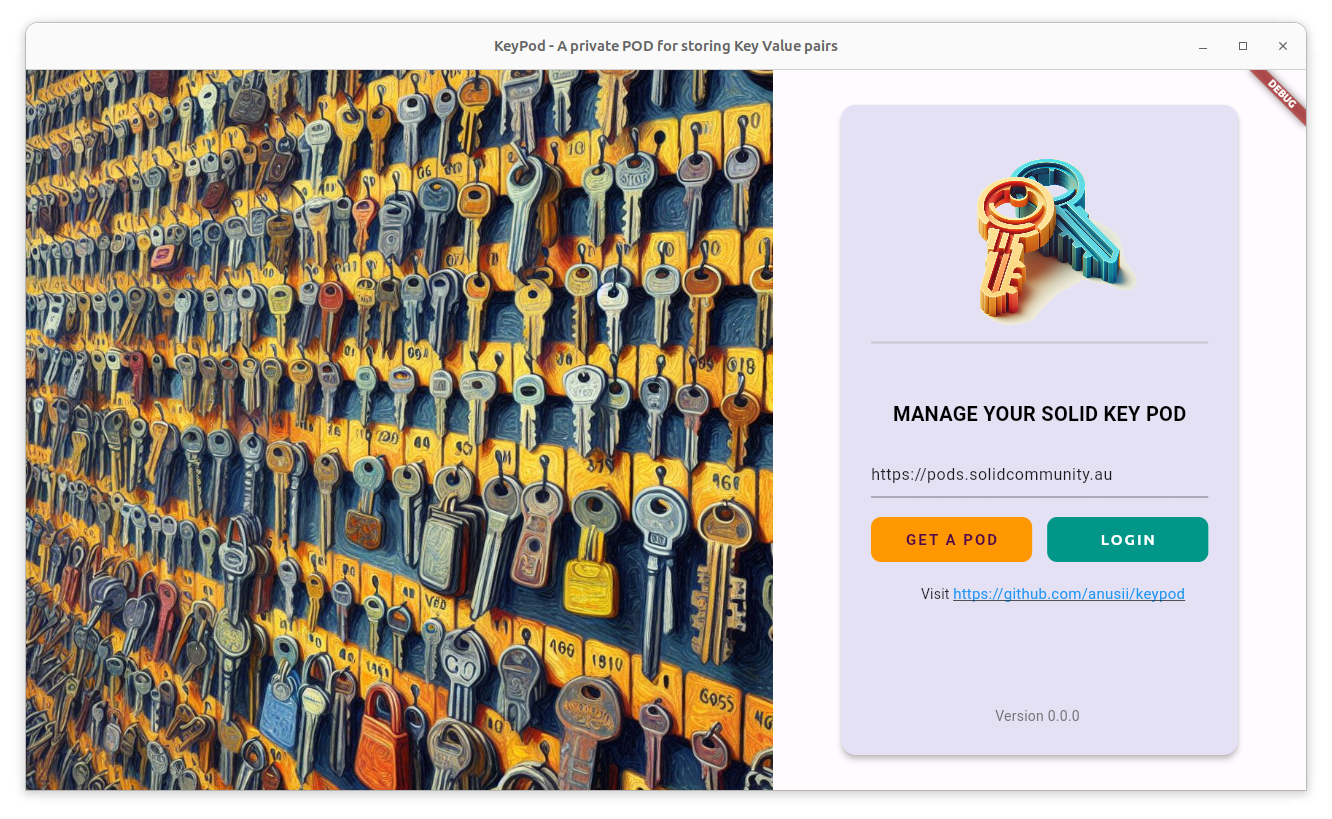
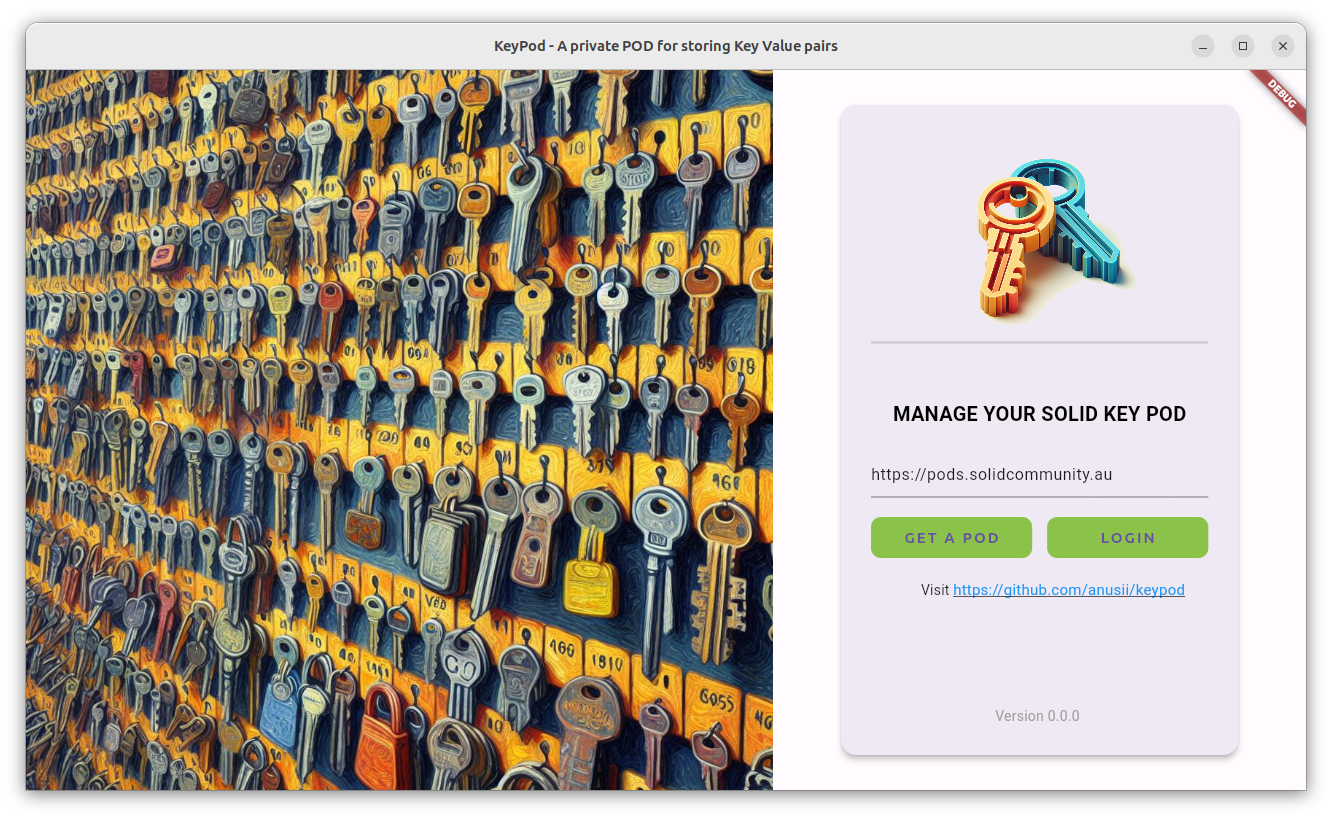
Remove button style options from the package. Use themes.

Changed region(s): [[0.0, 0.0305, 0.985, 0.9768], [0.6464, 0.6105, 0.9234, 0.7326], [0.3694, 0.0305, 0.6156, 0.0611]]

diff --git a/lib/src/solid_login.dart b/lib/src/solid_login.dart
@@ -1,6 +1,6 @@
 /// A widget to obtain a Solid token to access the user's POD.
 ///
-// Time-stamp: <Friday 2024-01-05 09:02:57 +1100 Graham Williams>
+// Time-stamp: <Friday 2024-01-05 13:14:41 +1100 Graham Williams>
 ///
 /// Copyright (C) 2024, Software Innovation Institute, ANU.
 ///
@@ -78,14 +78,9 @@ class SolidLogin extends StatelessWidget {
         const AssetImage('assets/images/default_image.jpg', package: 'solid'),
     this.logo =
         const AssetImage('assets/images/default_logo.png', package: 'solid'),
-    this.panelBG = const Color(0xFFF2F4FC),
     this.title = 'LOG IN TO YOUR POD',
     this.webID = 'https://pods.solidcommunity.au',
     this.link = 'https://solidproject.org',
-    this.getpodFG = Colors.purple,
-    this.getpodBG = Colors.orange,
-    this.loginFG = Colors.white,
-    this.loginBG = Colors.teal,
     this.version = appVersion,
     super.key,
   });
@@ -102,11 +97,6 @@ class SolidLogin extends StatelessWidget {
 
   final AssetImage logo;
 
-  /// The Login panel's background colour. The default background colour is a
-  /// very light grey as a sublte background.
-
-  final Color panelBG;
-
   /// The login text indicating what we are loging in to.
 
   final String title;
@@ -120,23 +110,6 @@ class SolidLogin extends StatelessWidget {
 
   final String link;
 
-  /// The foreground colour of the GET POD button.
-
-  final Color getpodFG;
-
-  /// The background colour of the GET POD button.
-
-  final Color getpodBG;
-
-  /// The foreground colour of the LOGIN button.
-
-  final Color loginFG;
-
-  /// The background colour of the LOGIN button.
-
-  final Color loginBG;
-
-  /// The version of the app. The default is obtained from the app's
   /// pubspec.yaml.
 
   final String version;
@@ -169,21 +142,7 @@ class SolidLogin extends StatelessWidget {
     // a fixed path but needs to be obtained from the server meta data, as was
     // done in solid_auth through [getIssuer].
 
-    const buttonLetterSpacing = 2.0;
-    const buttonFontSize = 15.0;
-    const buttonFontWeight = FontWeight.bold;
-    const buttonPadding = EdgeInsets.all(20);
-    final buttonBorderRadius = BorderRadius.circular(10);
-
-    final getPodButton = TextButton(
-      style: TextButton.styleFrom(
-        padding: buttonPadding,
-        backgroundColor: getpodBG,
-        shape: RoundedRectangleBorder(
-          borderRadius: buttonBorderRadius,
-        ),
-      ),
-
+    final getPodButton = ElevatedButton(
       // TODO 20231229 gjw NEED TO USE AN APPROACH TO GET THE RIGHT SOLID SERVER
       // REGISTRATION URL WHICH HAS CHANGED OVER SERVERS. PERHAPS IT IS NEEDED
       // TO BE OBTAINED FROM THE SERVER META DATA? CHECK WITH ANUSHKA. MIGRATE
@@ -193,15 +152,7 @@ class SolidLogin extends StatelessWidget {
       onPressed: () =>
           launchUrl(Uri.parse('$webID/.account/login/password/register/')),
 
-      child: Text(
-        'GET A POD',
-        style: TextStyle(
-          color: getpodFG,
-          letterSpacing: buttonLetterSpacing,
-          fontSize: buttonFontSize,
-          fontWeight: buttonFontWeight,
-        ),
-      ),
+      child: const Text('GET A POD'),
     );
 
     // A LOGIN button that when pressed will proceed to attempt to connect to
@@ -209,20 +160,18 @@ class SolidLogin extends StatelessWidget {
     // themselves. On return from the authentication, if successful, the class
     // provided child widget is instantiated.
 
-    final loginButton = TextButton(
-      style: TextButton.styleFrom(
-        padding: buttonPadding,
-        backgroundColor: loginBG,
-        shape: RoundedRectangleBorder(
-          borderRadius: buttonBorderRadius,
-        ),
-      ),
+    final loginButton = ElevatedButton(
+      // style: TextButton.styleFrom(
+      //   shape: RoundedRectangleBorder(
+      //     borderRadius: buttonBorderRadius,
+      //   ),
+      // ),
       onPressed: () async {
         // Authenticate against the Solid server.
 
         // Method to show busy animation requiring BuildContext.
         //
-        // This approach of creating a local method will address the `flutter
+        // This approach of creating a local method will avoid the `flutter
         // analyze` issue `use_build_context_synchronously`, identifying the use
         // of a BuildContext across asynchronous gaps, without referencing the
         // BuildContext after the async gap.
@@ -268,19 +217,7 @@ class SolidLogin extends StatelessWidget {
           showAuthFailedPopup();
         }
       },
-      child: Text(
-        'LOGIN',
-        style: TextStyle(
-          color: loginFG,
-          letterSpacing: buttonLetterSpacing,
-          fontSize: buttonFontSize,
-          fontWeight: buttonFontWeight,
-          // TODO 20240104 gjw WHY THE CHOICE OF THIS SPECIFIC FONT? THIS WILL
-          // OVERRIDE ANY THEMES AND SO COULD CAUSE THE BUTTON TO LOOK RATHER
-          // DIFFERENT TO EVERYTHING ELSE WITHOUT A USER BEING ABLE TO FIX IT?
-          // fontFamily: 'Poppins',
-        ),
-      ),
+      child: const Text('LOGIN'),
     );
 
     // An Information link that is displayed within the Login panel.
@@ -414,7 +351,6 @@ class SolidLogin extends StatelessWidget {
       child: SingleChildScrollView(
         child: Card(
           elevation: 5,
-          color: panelBG,
           shape:
               RoundedRectangleBorder(borderRadius: BorderRadius.circular(15)),
           child: loginPanelDecor, //actualChildEventually,
